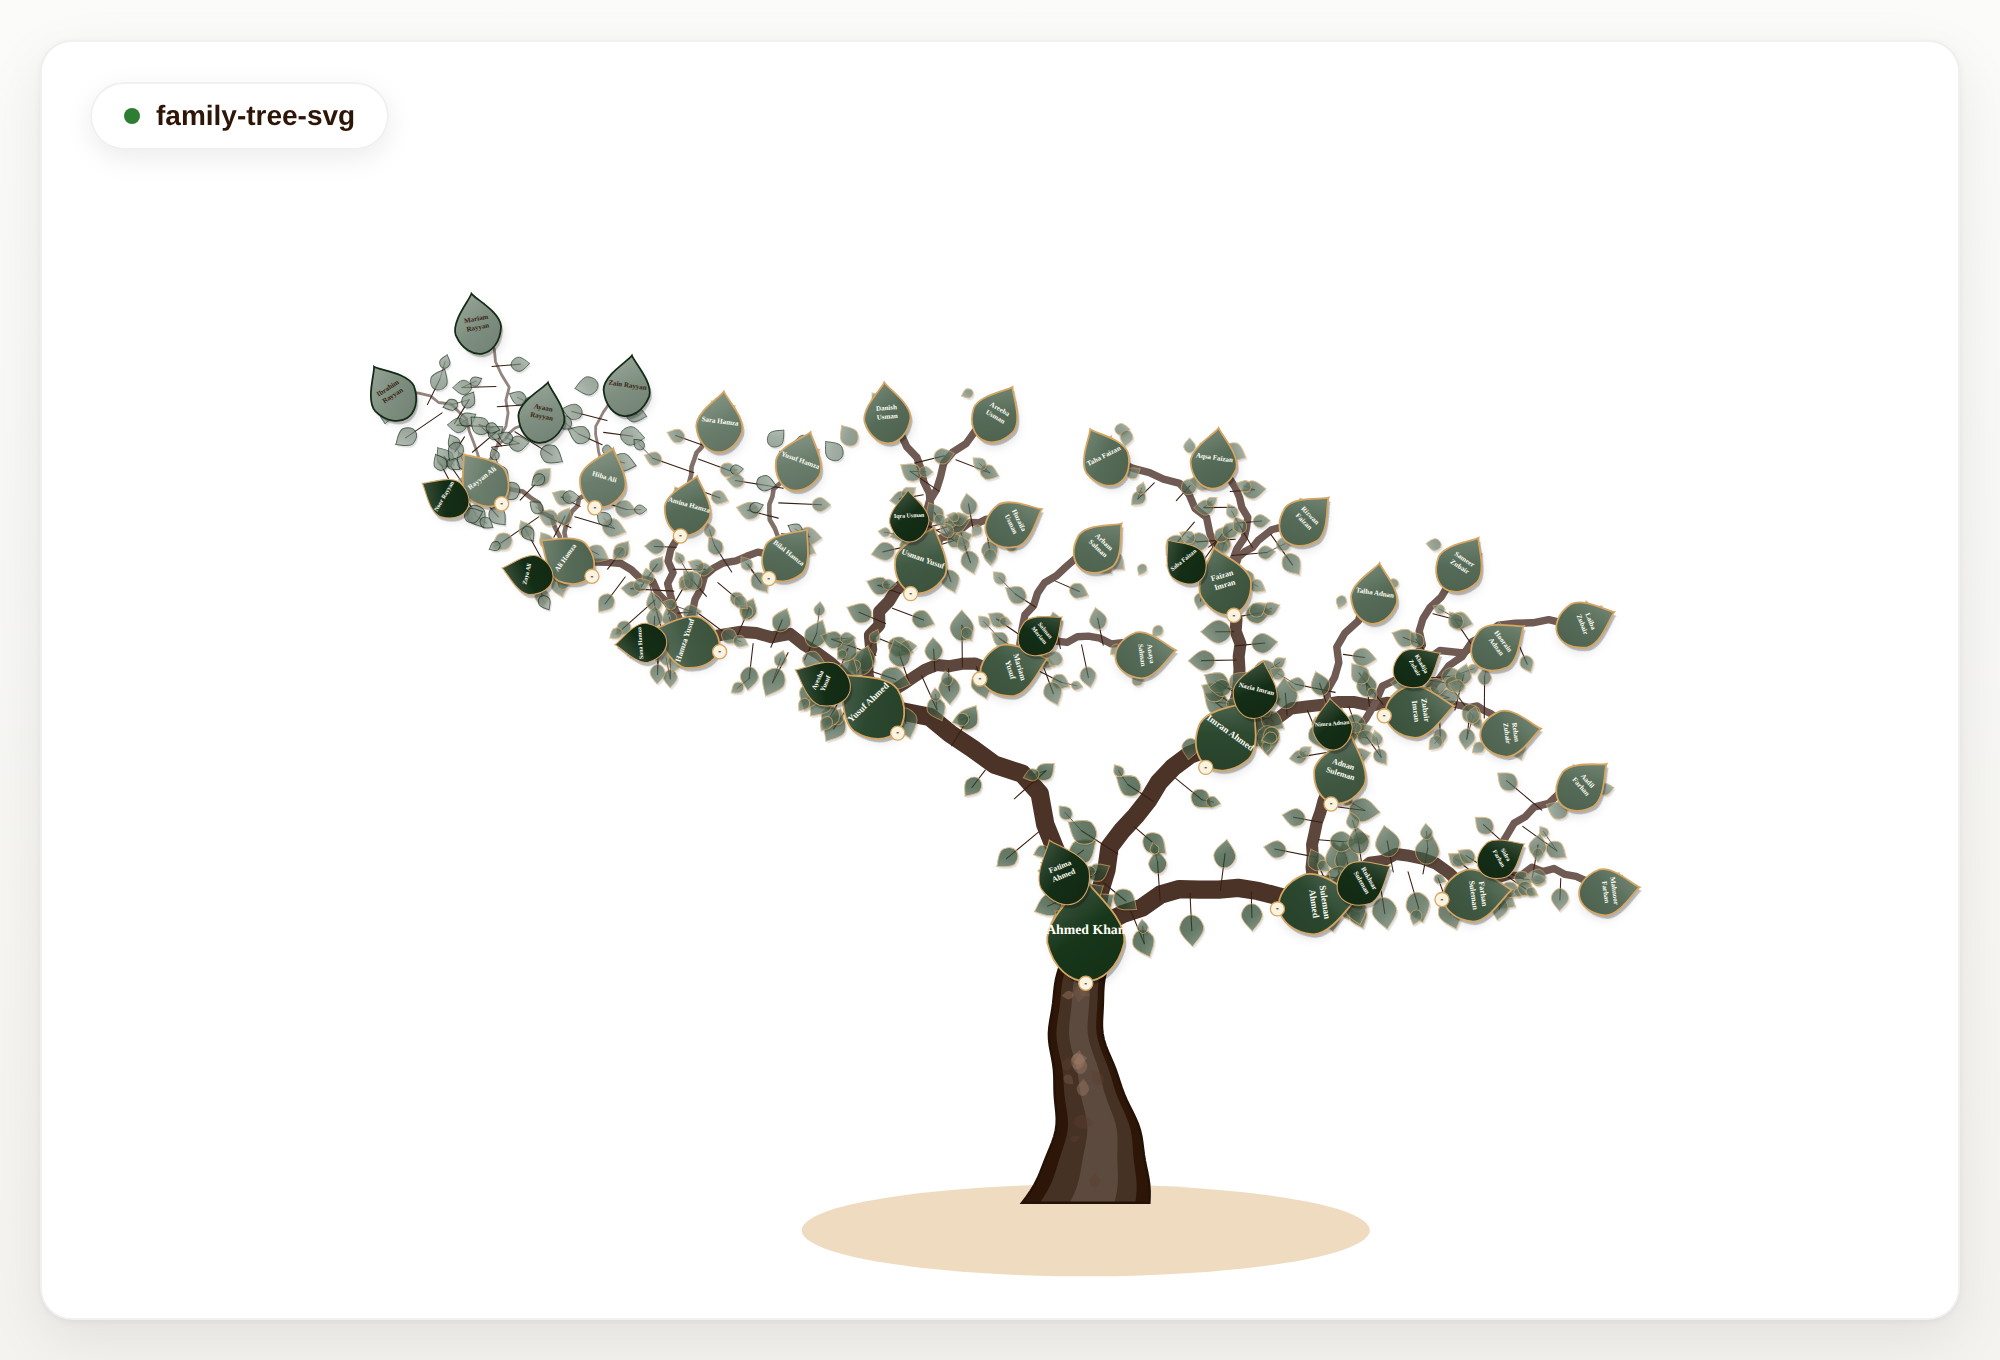
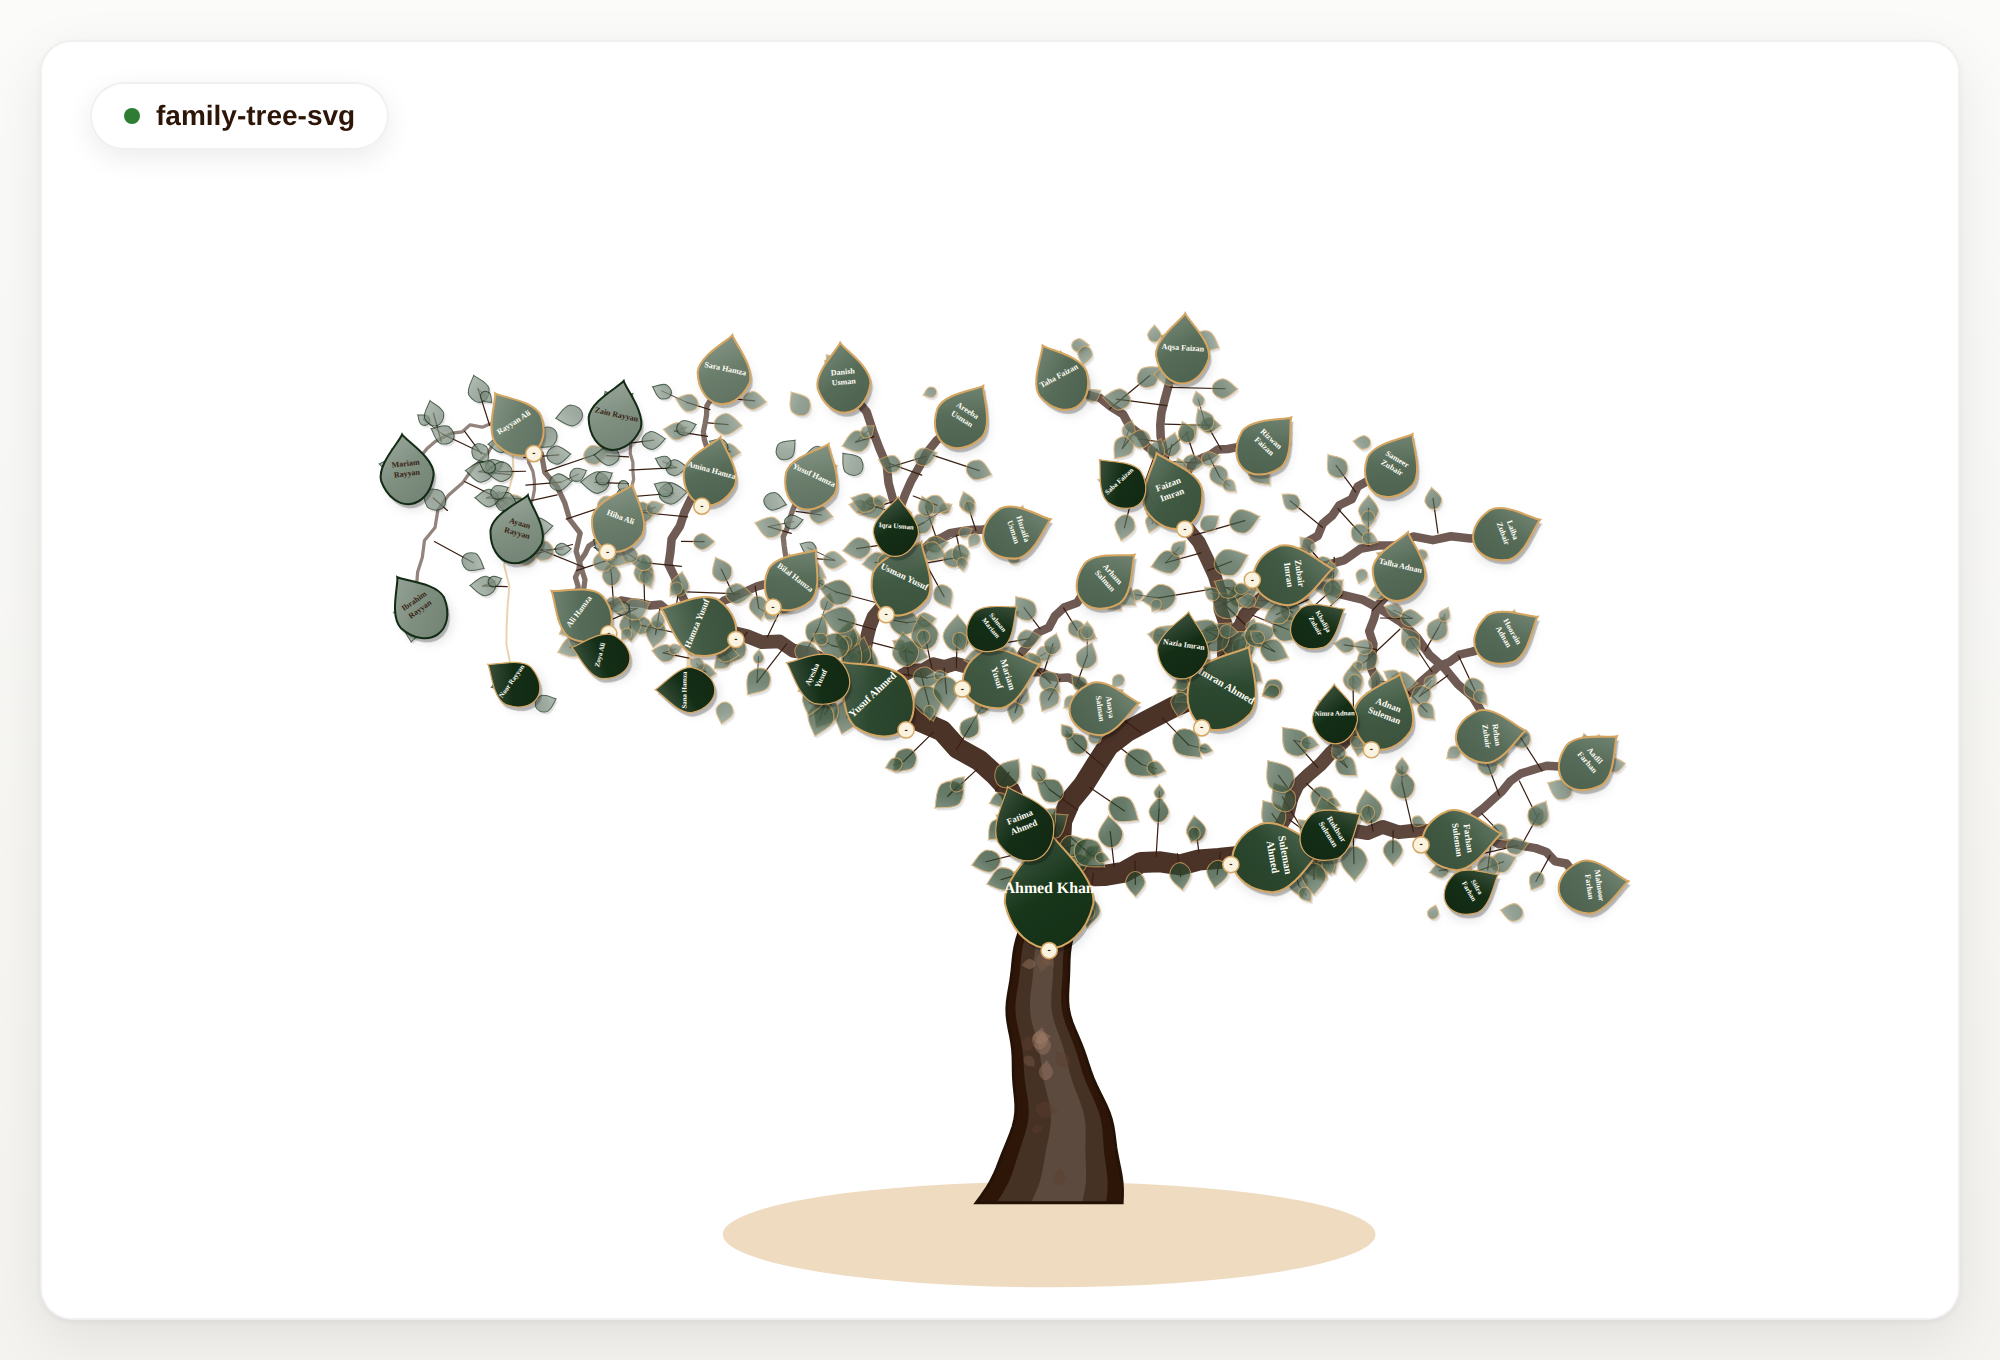
style: round canopy dome with natural gravity droop and update preview

Changed region(s): [[0.186, 0.2162, 0.837, 0.9574], [0.651, 0.8956, 0.682, 0.9265]]

diff --git a/src/family-tree-svg.js b/src/family-tree-svg.js
@@ -117,7 +117,7 @@
         this._BC = [];
         this._BW = [38, 26, 17, 10.5, 6.5, 4.0];
         this._TRUNK_H = 480;
-        this._BR_LEN = [0, 280, 210, 165, 130, 100];
+        this._BR_LEN = [0, 260, 185, 135, 95, 70];
         this._SPREAD = [0, 220, 170, 135, 108, 85];
         this._LW = 78;
         this._LH = 96;
@@ -354,11 +354,19 @@
             if (k._isPartner) kidAngle = angle - 22;
             else kidAngle += (rng(k.id, 'j') - .5) * 8;
             if (!k._isPartner) kidAngle = Math.max(-82, Math.min(82, kidAngle));
-            var swMul = Math.max(1, Math.pow(k._sw, 0.28) * 0.72);
+            var swMul = Math.max(1, Math.min(1.32, Math.pow(k._sw, 0.25) * 0.75));
             var lenVar = branchLen * (k._isPartner ? 0.32 : (0.88 + rng(k.id, 'l') * 0.26)) * swMul;
             var rad = (kidAngle - 90) * Math.PI / 180;
             var kex = endX + Math.cos(rad) * lenVar;
             var key = endY + Math.sin(rad) * lenVar;
+            // Gravity sag for long lateral branches
+            if (ROOT && ROOT._x !== undefined && depth >= 2) {
+                var latDist = Math.abs(kex - ROOT._x);
+                if (latDist > 220) {
+                    var sag = Math.pow((latDist - 220) / 380, 1.5) * 45;
+                    key += sag;
+                }
+            }
             var limitY = (ROOT && ROOT._y !== undefined ? ROOT._y : endY) + 20;
             if (key > limitY) key = limitY;
             self._pass2(k, endX, endY, kex, key, kidAngle, depth + 1);
@@ -368,8 +376,8 @@
     FamilyTreeSVG.prototype._resolveOverlaps = function () {
         var nodes = Object.values(this._nodeMap);
         var N = nodes.length;
-        var R = Math.max(520, Math.min(1200, Math.sqrt(N) * 135));
-        var rx = R * 1.6, ry = R * 0.85;
+        var R = Math.max(480, Math.min(950, Math.sqrt(N) * 115));
+        var rx = R * 1.30, ry = R * 0.90;
         var ccx = this._ROOT._x, ccy = this._ROOT._y - ry * 0.52;
         var LW = this._LW, ROOT = this._ROOT;
         for (var it = 0; it < 80; it++) {
@@ -512,8 +520,9 @@
             var t = i / steps;
             var lx = x1 + dx * t, ly = y1 + dy * t;
             var bow = Math.sin(t * Math.PI) * sweep * side;
-            var wig = i < steps ? (rng(nid, 'wg_' + i) - 0.5) * (len * 0.05) : 0;
-            var cx = lx + px * (bow + wig), cy = ly + py * (bow + wig);
+            var grav = Math.sin(t * Math.PI) * (len * 0.05);
+            var wig = i < steps ? (rng(nid, 'wg_' + i) - 0.5) * (len * 0.045) : 0;
+            var cx = lx + px * (bow + wig), cy = ly + py * (bow + wig) + grav;
             if (cy > ROOT._y + 30) cy = ROOT._y + 30;
             d += ' L' + cx + ',' + cy;
         }
